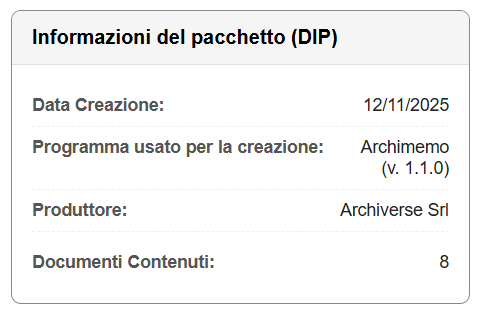
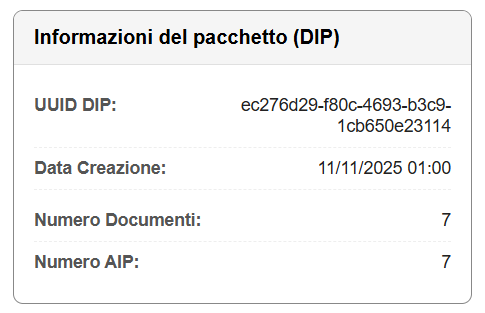
aggiornato manuale. manca procedura per scaricare

diff --git a/2 - PB/Documenti esterni/Manuale_Utente_v0_5.tex b/2 - PB/Documenti esterni/Manuale_Utente_v0_5.tex
@@ -3,10 +3,10 @@
 \usepackage{fontawesome5}
 
 \setTitle{Manuale Utente}
-\setAuthors{Sara Gioia Fichera \\ & Andrea Masiero}
-\setVerificators{Nenad Radulovic \\ & Francesco Balestro}
+\setAuthors{Sara Gioia Fichera \\ & Andrea Masiero \\ & Filippo Compagno}
+\setVerificators{Nenad Radulovic \\ & Francesco Balestro \\ & Bianca Zaghetto}
 \setApprovation{}
-\setVersion{0.3}
+\setVersion{0.5}
 \setType{Esterno}
 \setDestination{Team Three Technologies \\ & Prof. Tullio Vardanega \\ & Prof. Riccardo Cardin \\ & Sanmarco Informatica SpA}
 
@@ -19,6 +19,8 @@
                 \begin{tabularx}{\textwidth}{|l|l|l|l|L|L|}
                 \hline
                 \textbf{Vers.} & \textbf{Data} & \textbf{Autore} & \textbf{Ruolo} & \textbf{Verifica} & \textbf{Oggetto} \\
+                \hline
+                \textbf{0.5} & 24/04/26 & Filippo Compagno & Programmatore & Bianca Zaghetto & Aggiornata sezione Guida all'Utilizzo\\
                 \hline
                 \textbf{0.4} & 14/04/26 & Mattia Oliva Medin & Responsabile & Francesco Balestro & Aggiornata sezione Guida all'Utilizzo\\
                 \hline
@@ -61,12 +63,12 @@
                 \item \textit{Norme di Progetto v1.0}
                 \begin{itemize}
                     \item \url{https://team-three-technologies.github.io/Documenti/1%20-%20RTB/Documenti%20interni/Norme_di_Progetto_v1_0.pdf}
-                    \item[] (Ultimo accesso: 13/04/2026)
+                    \item[] (Ultimo accesso: 14/04/2026)
                 \end{itemize}
                 \item Regolamento del Progetto Didattico
                 \begin{itemize}
                     \item \url{https://www.math.unipd.it/~tullio/IS-1/2025/Dispense/PD1.pdf}
-                    \item[] (Ultimo accesso: 13/04/2026)
+                    \item[] (Ultimo accesso: 24/04/2026)
                 \end{itemize}
             \end{itemize}
             }
@@ -75,7 +77,7 @@
                 \item \textit{Analisi dei Requisiti v1.0}
                 \begin{itemize}
                     \item \url{https://team-three-technologies.github.io/Documenti/1%20-%20RTB/Documenti%20esterni/Analisi_dei_Requisiti_v1_0.pdf}
-                    \item[] (Ultimo accesso: 14/04/2026)
+                    \item[] (Ultimo accesso: 24/04/2026)
                 \end{itemize}
                 \item Verbali interni
                 \item Verbali esterni
@@ -87,7 +89,7 @@
                 \item Slide del corso: T2 - Processi di ciclo di vita del \textit{software}
                 \begin{itemize}
                     \item \url{https://www.math.unipd.it/~tullio/IS-1/2025/Dispense/T02.pdf}
-                    \item[] (Ultimo accesso: 11/04/2026)
+                    \item[] (Ultimo accesso: 23/04/2026)
                 \end{itemize}
                 \item Slide del corso: T4 - Gestione di progetto
                 \begin{itemize}
@@ -97,7 +99,7 @@
                 \item \textit{Glossario v0.5}
                 \begin{itemize}
                     \item \url{https://team-three-technologies.github.io/Documenti/1%20-%20RTB/Documenti%20interni/Glossario_v0_5.pdf}
-                    \item[] (Ultimo accesso: 14/04/2026)
+                    \item[] (Ultimo accesso: 24/04/2026)
                 \end{itemize}
             \end{itemize}
             }
@@ -106,7 +108,7 @@
     
     \section{Installazione}
         \subsection{Requisiti di sistema}
-        DIPReader è un'applicazione desktop autonoma che non richiede l'installazione di componenti aggiuntive. Tutto il necessario per il funzionamento è già incluso nel pacchetto di distribuzione. \\
+        DIPReader è un'applicazione desktop autonoma che non richiede l'installazione di componenti aggiuntive, in quanto tutto il necessario per il funzionamento è già incluso nel pacchetto di distribuzione.\\
 
         L'applicazione è compatibile con i seguenti sistemi operativi:
         \begin{itemize}
@@ -116,32 +118,54 @@
         \end{itemize}
 
         \subsection{Installazione}
-            Per installare l'applicativo DIPReader la procedura cambia leggermente in base al sistema operativo in uso. In nessun caso è richiesta l'installazione di componenti aggiuntive.
+            Per installare l'applicativo DIPReader la procedura cambia leggermente in base al sistema operativo in uso ma in nessun caso è richiesta l'installazione di componenti aggiuntive.
+            L'applicativo è disponibile per il download alla seguente repository: \\
+            \url{https://github.com/Team-Three-Technologies/MVP}
 
-            (procedura con screen di come fare il download dalla repo. ??)
+            (procedura con screen di come fare il download dalla repo)
 
             \begin{itemize}
-                \item Windows: Il pacchetto è un file eseguibile .exe di tipo portable. È sufficiente scaricare il file, posizionarlo nella cartella desiderata e avviarlo con un doppio clic.
+                \item Windows: Il pacchetto è un file eseguibile .exe di tipo portable.
+                    Per installare l'applicazione è sufficiente:
+                    \begin{enumerate}
+                        \item Posizionare il file scaricato nella cartella radice del pacchetto DIP
+                        \item Avviare l'applicazione con un doppio clic
+                    \end{enumerate}
+
                 \item macOS: Il pacchetto per macOS è distribuito come archivio .zip. \\
                     Per installare l'applicazione è sufficiente:
                     \begin{enumerate}
                         \item Aprire il file .zip scaricato
-                        \item Trascinare l'applicazione nella cartella scelta
+                        \item Trascinare l'applicazione nella cartella radice del pacchetto DIP
                         \item Avviare l'applicazione con un doppio clic
                     \end{enumerate}
+
                 \item Linux: Il pacchetto è distribuito nel formato AppImage, un formato universale compatibile con la maggior parte delle distribuzioni Linux. \\
                     Per avviare l'applicazione:
                     \begin{enumerate}
                         \item Scaricare il file .AppImage
-                        \item Renderlo eseguibile: tasto destro sul file $\rightarrow$ Proprietà $\rightarrow$ spuntare "Consenti esecuzione come programma" (oppure da terminale con il comando chmod + x nomeFile.AppImage ??)
-                        \item Avviare l'applicazione con un doppio clic
+                        \item Renderlo eseguibile: tasto destro sul file $\rightarrow$ Proprietà $\rightarrow$ spuntare "Consenti esecuzione come programma"
+                        \item Spostare il file nella cartella radice del pacchetto DIP e avviarlo con un doppio clic
                     \end{enumerate}
-                    Non è necessario disporre di permessi di amministratore.
             \end{itemize}
 
-        \subsection{Primo avvio}
-            Una volta avviato DIPReader, l'applicazione si apre direttamente sull'interfaccia principale, senza richiedere alcuna registrazione, creazione di account o configurazione. Se l'eseguibile non è stato posizionato all'interno di una cartella DIP valida, la lista dei documenti risulta vuota.
-            Per caricare un pacchetto DIP e iniziare la consultazione, fare riferimento alla sezione \ref{sec:apertura}.
+            In nessun caso sono richiesti permessi di amministratore.
+
+            \subsection{Primo avvio}
+            Al primo avvio DIPReader si apre direttamente sull'interfaccia principale, senza richiedere registrazione, creazione di account o configurazione. 
+            Se la lista dei documenti risulta vuota, verificare che l'eseguibile sia posizionato correttamente nella cartella radice del pacchetto DIP (vedere sezione \ref{sec:apertura}).
+
+            \begin{figure}[h!]
+                \centering
+                \setlength{\fboxrule}{0.5pt}
+                \setlength{\fboxsep}{0pt}
+                \fbox{
+                    \includegraphics[width=0.5\textwidth]{screenshots_dipreader/dipreader.png}
+                }
+                \caption{Schermata principale}
+                \label{fig:dipreader}
+            \end{figure}
+
 
     \section{Guida all'utilizzo}
         \subsection{Apertura di un pacchetto DIP}
@@ -151,16 +175,53 @@
 
         \subsection{Consultazione dei documenti}
             \subsubsection{Visualizzare la lista dei documenti}
-            Al centro della finestra è presente la lista di tutti i documenti contenuti nel pacchetto DIP o, nel caso in cui siano applicati dei filtri (per maggiori dettagli sull'utilizzo dei filtri si rimanda alla sezione \ref{sec:filtri}), l'elenco dei soli documenti corrispondenti ai criteri di ricerca. Ogni voce riporta il nome del file e la relativa estensione.          
+            Al centro della finestra è presente la lista di tutti i documenti contenuti nel pacchetto DIP o, nel caso in cui siano applicati dei filtri (per maggiori dettagli sull'utilizzo dei filtri si rimanda alla sezione \ref{sec:filtri}), l'elenco dei soli documenti corrispondenti ai criteri di ricerca. Per ciascun 
+            documento principale sono elencati, immediatamente al di sotto e con un leggero rientro, i relativi allegati.  
+            
+            \begin{figure}[h!]
+                \centering
+                \setlength{\fboxrule}{0.5pt}
+                \setlength{\fboxsep}{0pt}
+                \fbox{
+                    \includegraphics[width=0.5\textwidth]{screenshots_dipreader/document-list.png}
+                }
+                \caption{Lista dei documenti}
+                \label{fig:document-list}
+            \end{figure}
             
             \subsubsection{Selezionare un documento e visualizzarne i dettagli}
             Per selezionare un documento è sufficiente fare clic sul nome del documento dalla lista. 
             Dopo aver selezionato un documento, nel pannello di destra compare la sezione "Dettagli Documento" con i seguenti campi: il nome del file, il formato (ad esempio PDF o XML), l'identificativo univoco del documento, e la data e ora di registrazione. Più in basso è presente la sezione "Allegati", che mostra il numero di allegati e li elenca ciascuno con il proprio percorso e formato.
             Per la consultazione degli allegati vedere la sezione~\ref{sec:allegati}.
 
+            \begin{figure}[h!]
+                \centering
+                \setlength{\fboxrule}{0.5pt}
+                \setlength{\fboxsep}{0pt}
+                \fbox{
+                    \includegraphics[width=0.5\textwidth]{screenshots_dipreader/document-details.png}
+                }
+                \caption{Dettagli di un documento}
+                \label{fig:document-details}
+            \end{figure}
+
             \subsubsection{Visualizzare l'anteprima di un documento}
-            Per visualizzare il contenuto di un file, è sufficiente cliccare sull'icona a forma di occhio (\faEye) posta in corrispondenza del documento di interesse nell'elenco centrale. L'anteprima viene caricata in una schermata dedicata a tutto schermo, permettendo una lettura agevole senza la necessità di aprire programmi esterni. Per tornare alla lista di documenti è sufficiente cliccare l'apposito pulsante "Torna Indietro".
+            Per visualizzare il contenuto di un file, è sufficiente cliccare sull'icona a forma di occhio (\faEye) posta in corrispondenza del documento di interesse nell'elenco centrale. L'anteprima viene caricata in una schermata dedicata a tutto schermo, permettendo una lettura agevole senza la necessità di aprire programmi esterni. Per tornare alla lista di documenti è sufficiente cliccare l'apposito pulsante in alto a sinistra "Torna Indietro".
             Se l'anteprima non è disponibile, la sezione lo comunica tramite un apposito messaggio.
+
+            \begin{figure}[h!]
+                \centering
+                \setlength{\fboxrule}{0.5pt}
+                \setlength{\fboxsep}{0pt}
+                \fbox{
+                    \includegraphics[width=0.5\textwidth]{screenshots_dipreader/preview.png}
+                }
+                \caption{Anteprima di un documento}
+                \label{fig:preview}
+            \end{figure}
+
+            \subsubsection{Esportare un documento}
+            Per salvare una copia del documento sul proprio dispositivo, è sufficiente selezionare il documento desiderato dalla lista e fare clic sul pulsante "Esporta" presente nel pannello di destra. Verrà aperta una finestra di dialogo che permette di scegliere la cartella di destinazione.
 
         \subsection{Consultazione degli allegati}
             \subsubsection{Visualizzare gli allegati di un documento}
@@ -169,17 +230,39 @@
             
             \subsubsection{Selezionare un allegato e visualizzarne i dettagli}
             Per consultare i dettagli di uno specifico allegato, è sufficiente fare clic sul suo nome all'interno di questa sotto-lista. A seguito della selezione, il pannello di destra si aggiornerà mostrando la scheda "Dettagli Allegato", che riepiloga le informazioni specifiche del file selezionato quali: nome, formato e identificativo.
+
+            \begin{figure}[h!]
+                \centering
+                \setlength{\fboxrule}{0.5pt}
+                \setlength{\fboxsep}{0pt}
+                \fbox{
+                    \includegraphics[width=0.5\textwidth]{screenshots_dipreader/attachment.png}
+                }
+                \caption{Dettagli di un allegato}
+                \label{fig:attachment}
+            \end{figure}
             
             \subsubsection{Visualizzare l'anteprima di un allegato}
             Così come per i documenti principali, anche per gli allegati è possibile visualizzare l'anteprima. Per farlo, occorre cliccare sull'icona a forma di occhio (\faEye) situata alla destra del nominativo dell'allegato desiderato.
+
+            \begin{figure}[h!]
+                \centering
+                \setlength{\fboxrule}{0.5pt}
+                \setlength{\fboxsep}{0pt}
+                \fbox{
+                    \includegraphics[width=0.5\textwidth]{screenshots_dipreader/preview.png}
+                }
+                \caption{Anteprima di un documento}
+            \end{figure}
             
             \subsubsection{Tornare al documento padre}
             Per tornare alla visualizzazione del documento principale è sufficiente fare clic sul suo nome nella lista centrale. Il pannello di destra si aggiorna ripristinando i metadati.
 
         \subsection{Ricerca e uso dei filtri}
             \label{sec:filtri}
-            \subsubsection{Aggiungere un filtro}
-            Nella parte superiore del pannello laterale sinistro è presente il pulsante "Aggiungi Filtro". Premendolo compare una nuova riga contenente due elementi: un menu a tendina, per selezionare il campo sui cui effettuare la ricerca, e un campo di testo in cui digitare il valore desiderato.
+                \subsubsection{Aggiungere un filtro}
+                Nella parte superiore del pannello laterale sinistro è presente il pulsante "Aggiungi Filtro". Premendolo compare una nuova riga contenente un menu a tendina per selezionare il campo su cui effettuare la ricerca e un campo per inserire il valore desiderato.
+                Quest'ultimo varia in base al campo selezionato: per i campi temporali è presente un selettore di data, per i campi categorici un menu a tendina con opzioni predefinite, per gli altri invece un campo libero.
 
             \begin{figure}[h!]
                 \centering
@@ -192,9 +275,6 @@
                 \label{fig:filter1}
             \end{figure}
 
-            \subsubsection{Utilizzare più filtri combinati}
-            È possibile combinare più criteri di ricerca premendo nuovamente il pulsante "Aggiungi Filtro". Ogni riga aggiunta rappresenta un filtro indipendente: la ricerca restituisce solo i documenti che soddisfano tutti i criteri contemporaneamente.
-
             \begin{figure}[h!]
                 \centering
                 \setlength{\fboxrule}{0.5pt}
@@ -202,11 +282,15 @@
                 \fbox{
                     \includegraphics[width=0.5\textwidth]{screenshots_dipreader/filter2.png}
                 }
-                \caption{Impostare più filtri contemporaneamente}
+                \caption{Filtro con menu a tendina}
                 \label{fig:filter2}
             \end{figure}
 
+            \subsubsection{Utilizzare più filtri combinati}
+            È possibile combinare più criteri di ricerca premendo nuovamente il pulsante "Aggiungi Filtro". I filtri aggiuntivi si applicano in modo cumulativo: la ricerca restituisce solo i documenti che soddisfano tutti i criteri inseriti contemporaneamente.
+
             \subsubsection{Rimuovere un filtro}
+            \label{sec:removefilter}
             Per eliminare un filtro specifico è sufficiente fare clic sul pulsante a forma di "X" posto alla destra del relativo campo di testo.
 
             \begin{figure}[h!]
@@ -224,10 +308,10 @@
             Una volta impostati i parametri desiderati, fare clic sul pulsante "Cerca" per avviare l'elaborazione. La lista si aggiorna mostrando solo i documenti che corrispondono esattamente ai criteri inseriti.
 
             \subsubsection{Ripristinare la lista completa}
-            Per tornare a visualizzare l'intero contenuto del pacchetto DIP è sufficiente rimuovere tutti i filtri attivi e premere nuovamente il pulsante "Cerca".
+            Per tornare a visualizzare l'intero contenuto del pacchetto DIP è sufficiente rimuovere tutti i filtri attivi. Per rimuovere un filtro si veda la sezione \ref{sec:removefilter}.
             
         \subsection{Visualizzare le informazioni sul pacchetto DIP}
-        Il riquadro "Informazioni del pacchetto (DIP)", sempre visibile in basso a sinistra, riporta: data di creazione, nome e versione del programma usato per generarlo, produttore e numero totale di documenti contenuti.
+        Il riquadro "Informazioni del pacchetto (DIP)", sempre visibile in basso a sinistra, riporta: UUID, data di creazione, numero totale di documenti contenuti e numero AIP.
         
         \begin{figure}[h!]
             \centering
@@ -236,7 +320,7 @@
             \fbox{
                 \includegraphics[width=0.5\textwidth]{screenshots_dipreader/dip-details.png}
             }
-            \caption{Dettagli di un DIP}
+            \caption{Dettagli del pacchetto DIP}
             \label{fig:dip-details}
         \end{figure}
 \end{document}
